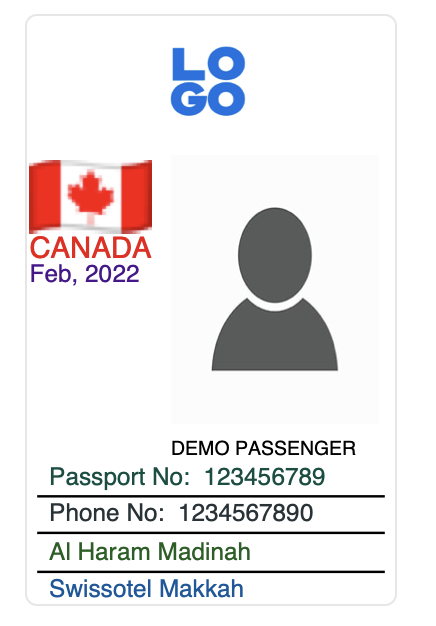
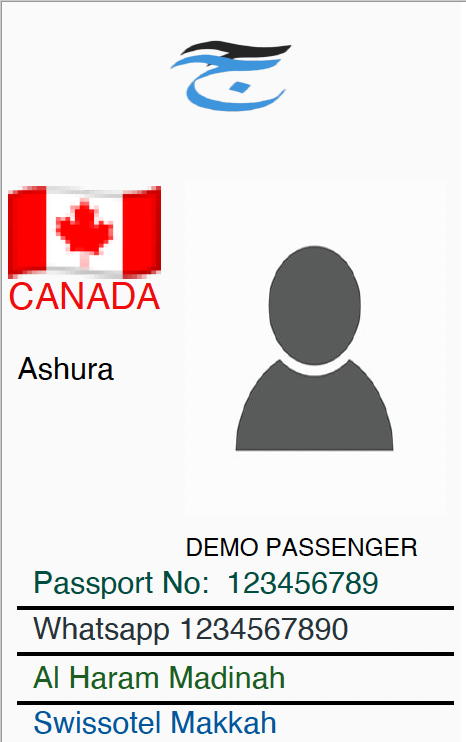
vettical color

Changed region(s): [[0.0, 0.0, 1.0, 1.0], [0.4771, 0.3035, 0.8647, 0.607]]

diff --git a/src/features/Dashboard/components/IDCard.js b/src/features/Dashboard/components/IDCard.js
@@ -169,6 +169,10 @@ const getIDPositionProps = (idType) => {
         x: 2,
         y: 153,
       },
+      verticalBackground: {
+        x: 0,
+        y: 0
+      }
     };
   }
 };
@@ -195,6 +199,8 @@ const IDCard = ({ passengers, caravanName }) => {
   const [previewURL, setPreviewURL] = React.useState(null);
   const [companyLogo, setCompanyLogo] = React.useState();
   const [downloading, setDownloading] = React.useState(false);
+  const [cardBackgroundColor, setCardBackgroundColor] = React.useState('r255g255b255');
+
   const classes = useStyles();
 
   const downloadFiles = (pdfBytes, cb) => {
@@ -259,6 +265,18 @@ const IDCard = ({ passengers, caravanName }) => {
         break;
       }
     }
+
+        // write caravan Logo image
+        if (getIDPositionProps(idType).verticalBackground !== undefined) {
+          firstPage.drawRectangle({
+            x: 0,
+            y: 0,
+            width: 150,
+            height: 250,
+            color: rgb(parseInt(cardBackgroundColor.substring(1,4))/255, parseInt(cardBackgroundColor.substring(5,8))/255, parseInt(cardBackgroundColor.substring(9))/255),
+            opacity: 1,
+          });
+        }
 
     let jpgImage = '';
 
@@ -374,7 +392,7 @@ const IDCard = ({ passengers, caravanName }) => {
           y: getIDPositionProps(idType).verticalCaravanName.y - i * 10,
           size: 10,
           font: helveticaFont,
-          color: rgb(0/255, 0/255, 0/255)
+          color: rgb(0 / 255, 0 / 255, 0 / 255)
         });
       }
 
@@ -456,7 +474,7 @@ const IDCard = ({ passengers, caravanName }) => {
         y: getIDPositionProps(idType).verticalPassportNumber.y,
         size: 10,
         font: helveticaFont,
-        color: rgb(0,77/255,64/255),
+        color: rgb(0, 77 / 255, 64 / 255),
       });
     }
     // vertical passport label line
@@ -481,7 +499,7 @@ const IDCard = ({ passengers, caravanName }) => {
         y: getIDPositionProps(idType).verticalPhoneNumber.y,
         size: 10,
         font: helveticaFont,
-        color: rgb(38/255,50/255,56/255),
+        color: rgb(38 / 255, 50 / 255, 56 / 255),
       });
     }
     //write vertical phone label line
@@ -507,7 +525,7 @@ const IDCard = ({ passengers, caravanName }) => {
         y: getIDPositionProps(idType).verticalMedinahHotel.y,
         size: 10,
         font: helveticaFont,
-        color: rgb(27/255,94/255,32/255),
+        color: rgb(27 / 255, 94 / 255, 32 / 255),
       });
     }
     // vertical medinah hotel line
@@ -533,7 +551,7 @@ const IDCard = ({ passengers, caravanName }) => {
         y: getIDPositionProps(idType).verticalMekahHotel.y,
         size: 10,
         font: helveticaFont,
-        color: rgb(1/255,87/255,155/255),
+        color: rgb(1 / 255, 87 / 255, 155 / 255),
       });
     }
 
@@ -651,13 +669,26 @@ const IDCard = ({ passengers, caravanName }) => {
 
     return url;
   };
+  const colorItems = []
+  const minValue = 150;
+  for (let r = minValue; r < 255; r += 50) {
+    for (let g = minValue; g < 255; g += 50) {
+      for (let b = minValue; b < 255; b += 50) {
+        colorItems.push({ r, g, b })
+      }
+    }
+  }
+
+  const handleCardColorChange = (e) => {
+    setCardBackgroundColor(e.target.value)
+  }
 
   return (
     <Grid container>
       <Grid item md={6}>
         <Grid container spacing={3}>
           <Box mb={2}>
-          <Typography variant='h4'>{t('card-options')}</Typography>
+            <Typography variant='h4'>{t('card-options')}</Typography>
           </Box>
           <Formik
             enableReinitialize
@@ -723,11 +754,11 @@ const IDCard = ({ passengers, caravanName }) => {
                         placeholder={'idType'}
                         required={true}
                       >
-                        ID Type
+                        Choose ID design and color
                       </InputLabel>
 
                       <Grid container alignItems="center">
-                        <Grid item xs={12}>
+                        <Grid item xs={9}>
                           <Field
                             as={Select}
                             className={classes.container}
@@ -775,6 +806,11 @@ const IDCard = ({ passengers, caravanName }) => {
                             </MenuItem>
                             <MenuItem value="vertical_blank">Vertical</MenuItem>
                           </Field>
+                        </Grid>
+                        <Grid item xs={2} style={{marginLeft: '1rem'}}>
+                          <Select onChange={handleCardColorChange} fullWidth>
+                            {colorItems.map((colorItem) => <MenuItem value={`r${colorItem.r}g${colorItem.g}b${colorItem.b}`} key={`r${colorItem.r}g${colorItem.g}b${colorItem.b}`} ><div style={{ width: '100%', height: '25px', backgroundColor: `rgb(${colorItem.r},${colorItem.g},${colorItem.b})` }}></div></MenuItem>)}
+                          </Select>
                         </Grid>
                       </Grid>
 
@@ -944,7 +980,7 @@ const IDCard = ({ passengers, caravanName }) => {
         {previewURL && (
           <img
             src={previewURL}
-            style={{ width: '100%' }}
+            style={{ width: '100%', backgroundColor: `rgb(${cardBackgroundColor.r},${cardBackgroundColor.g},${cardBackgroundColor.b})` }}
             alt="id card type preview"
           />
         )}
